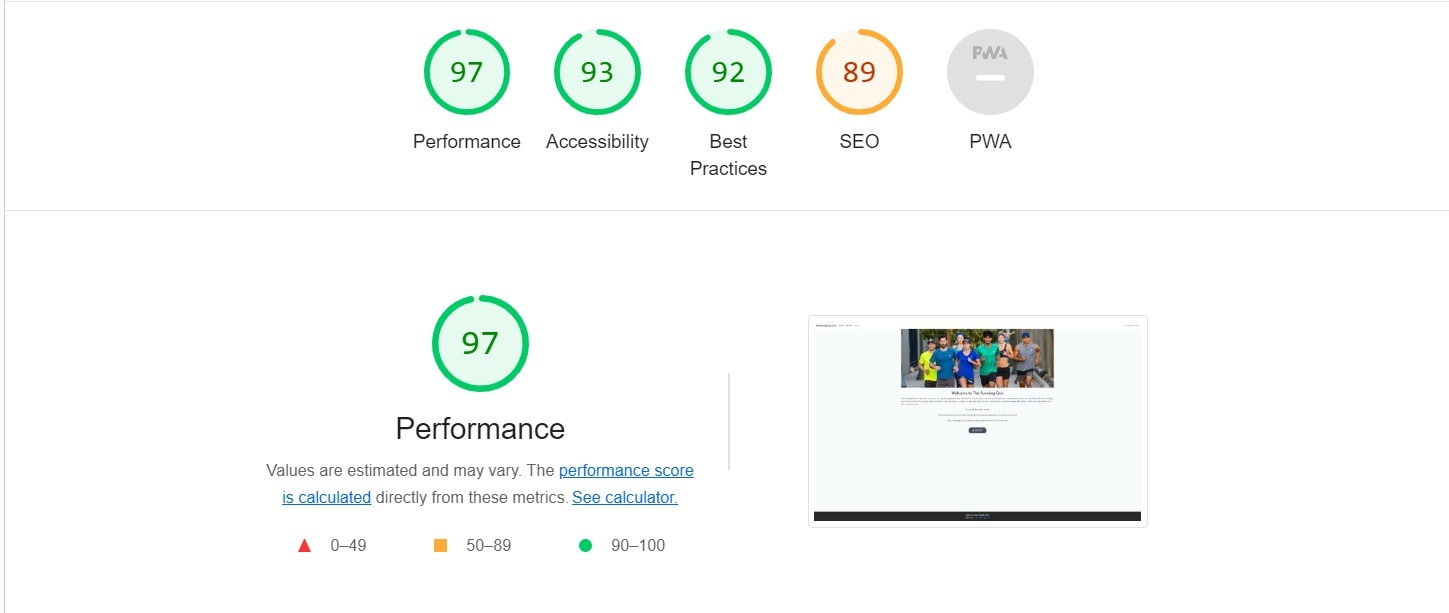
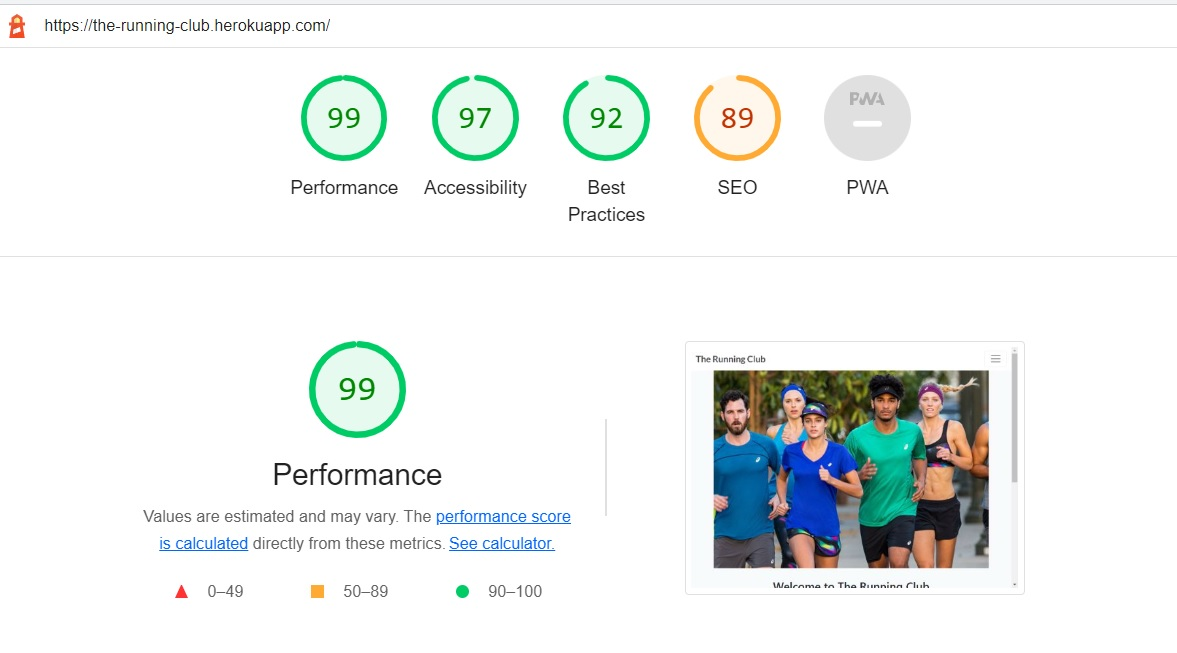
Update lighthouse report

diff --git a/README.md b/README.md
@@ -359,7 +359,7 @@ Result:
 
 - Testing results:
 
-    ENTER LIGHTHOUSE REPORT
+![Lighthouse Report](/documentation/lighthousereport.jpg "Lighthouse Report")
 
 ## W3C Markup Validation Service
 
@@ -369,30 +369,25 @@ Result:
     ![Home Validation](/documentation/html_home.jpg "Home Validation")
 
     - Article Page:
-    ![Home Validation](/documentation/html_article.jpg "Home Validation")
+    ![Article Validation](/documentation/html_article.jpg "Article Validation")
 
     - Article Detail:
-    ![Home Validation](/documentation/html_home.jpg "Home Validation")
+    ![Detail Validation](/documentation/html_detail.jpg "Detail Validation")
 
     - SignUp Page:
-    ![Home Validation](/documentation/html_signup.jpg "Home Validation")
+    ![Signup Validation](/documentation/html_signup.jpg "SignUp Validation")
 
     - Login Page:
-    ![Home Validation](/documentation/html_login.jpg "Home Validation")
+    ![Login Validation](/documentation/html_login.jpg "Log In Validation")
 
     - Logout Page:
-    ![Home Validation](/documentation/html_logout.jpg "Home Validation")
+    ![Logout Validation](/documentation/html_logout.jpg "Log Out Validation")
 
     - Publish Page:
-    ![Home Validation](/documentation/html_publish.jpg "Home Validation")
+    ![Publish Validation](/documentation/html_publish.jpg "Publish Validation")
 
     - Profile Page:
-    ![Home Validation](/documentation/html_profile.jpg "Home Validation")
-
-
-
-
-
+    ![Profile Validation](/documentation/html_profile.jpg "Profile Validation")
 
 
 - Errors and Warnings found but resolved:
